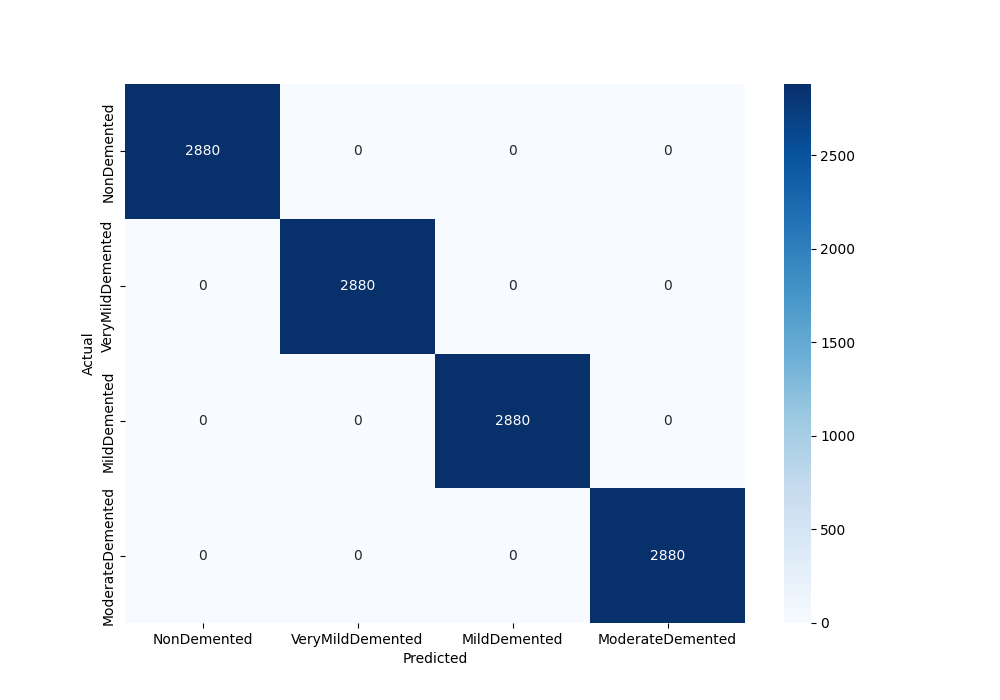
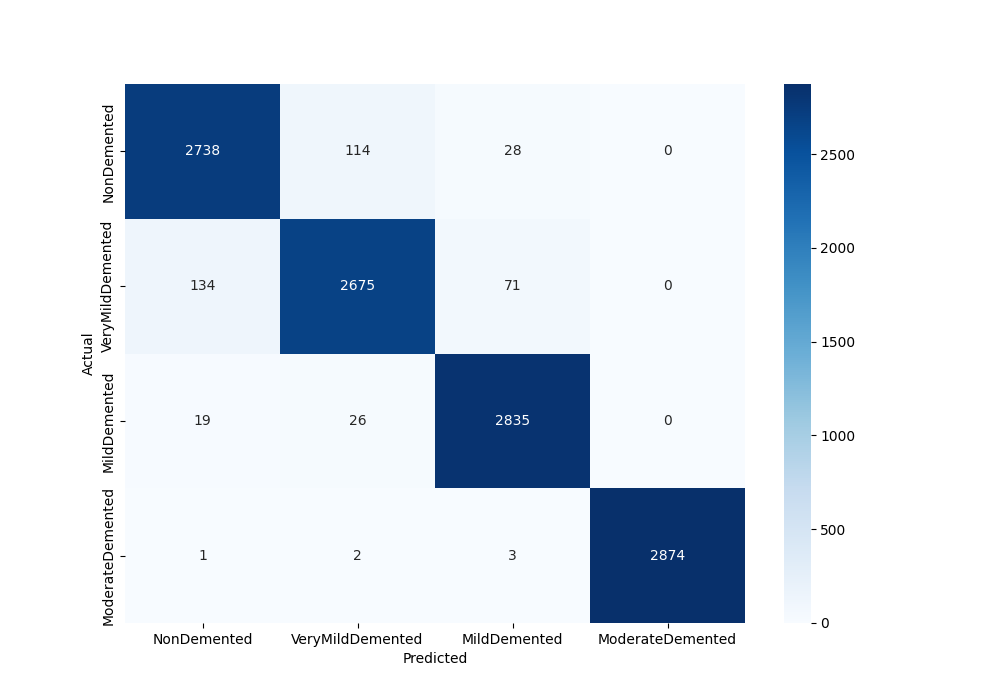
max_depth added to DT

diff --git a/src/handlers/parser.py b/src/handlers/parser.py
@@ -53,6 +53,7 @@ def parse_config(config_file:str)->argparse.Namespace:
     parser.add_argument('--do_ensemble_adaboost', type=bool, default= config["do_ensemble_adaboost"], help='do_ensemble_adaboost')
 
     parser.add_argument('--do_decision_tree', type=bool, default= config["do_decision_tree"], help='do_decision_tree')
+    parser.add_argument('--max_depth_decision_tree', type=int, default=config["max_depth_decision_tree"], help='max_depth_decision_tree')
 
     parser.add_argument('--do_naive_bayes', type=bool, default= config["do_naive_bayes"], help='do_naive_bayes')
 

diff --git a/src/main.py b/src/main.py
@@ -226,7 +226,7 @@ if __name__ == '__main__':
     if args.do_decision_tree:
         from classifiers.decision_tree import DecisionTree
         print("start decision tree")
-        decision_tree_classifier = DecisionTree()
+        decision_tree_classifier = DecisionTree(args.max_depth_decision_tree)
         decision_tree_classifier.train(train_data, train_label, classes)
         decision_tree_classifier.val(val_data, val_label, classes)
         print("decision tree done")

diff --git a/src/classifiers/decision_tree.py b/src/classifiers/decision_tree.py
@@ -9,8 +9,8 @@ import matplotlib.pyplot as plt
 import os
 
 class DecisionTree:
-    def __init__(self):
-        self.clf = DecisionTreeClassifier(max_features="auto")
+    def __init__(self,max_depth=16):
+        self.clf = DecisionTreeClassifier(max_features="auto",max_depth=max_depth)
 
     def train(self, train_data, train_label, classes):
         # train Decision Tree classifier
